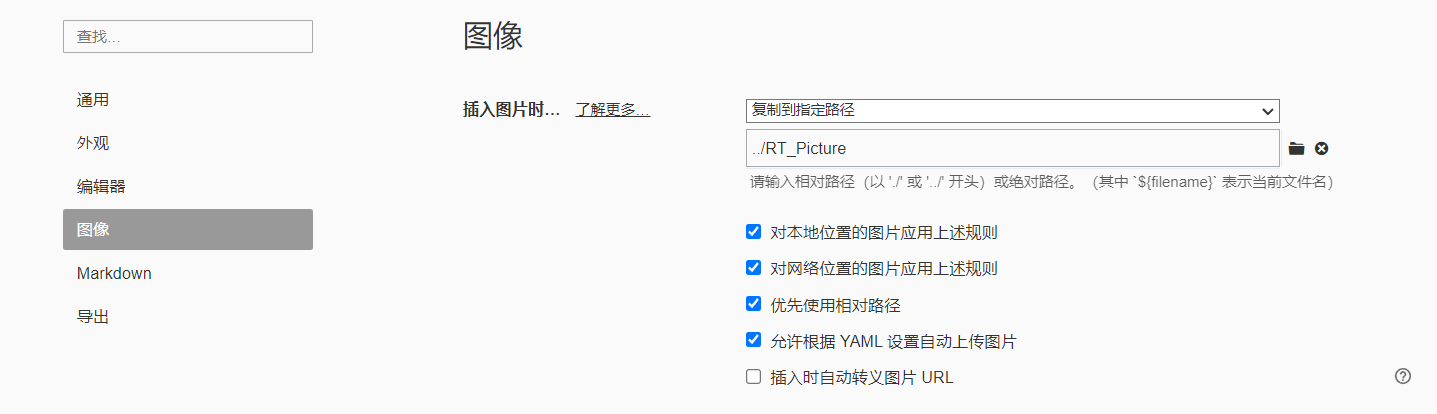
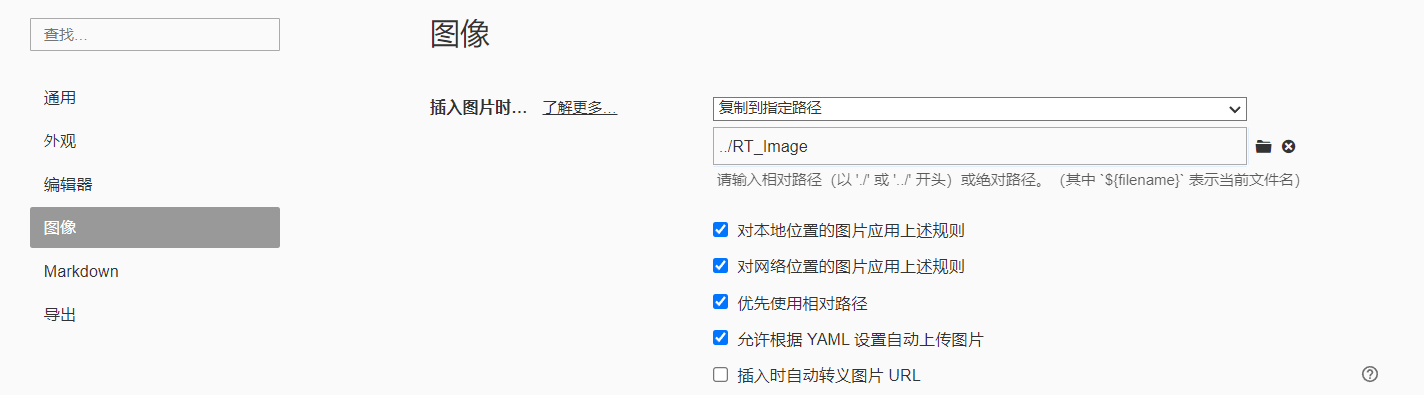
提交作业&笔记&修复图片

diff --git a/2026/第4组/张玉衡/笔记/第一天笔记.md b/2026/第4组/张玉衡/笔记/第一天笔记.md
@@ -386,7 +386,7 @@ RT-Thread Standard 的 FinSH 组件提供命令行，开启 `RT_USING_FINSH` + `
 
 夏令营要求每天用 Markdown 整理笔记与作业：
 
-### Typora 工具使用
+### Typora 工具设置偏好
 
 ![image0](../RT_Image/image0.png)
 
